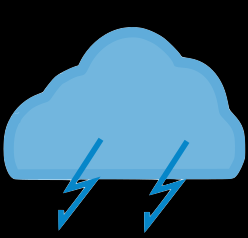
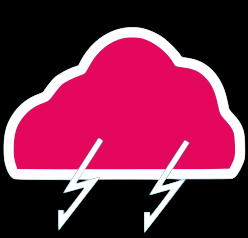
style change

diff --git a/app.py b/app.py
@@ -95,8 +95,8 @@ card = dbc.Card(
 Time_LED = daq.LEDDisplay(
     id="operator-led",
     value='12:34',
-    #color="#92e0d3",
-    backgroundColor="#0a0808",
+    color="#E4085C",
+    backgroundColor="#000000",
     size=50
 )
 
@@ -105,8 +105,8 @@ News = dbc.Toast(
     [html.P(str(news[0]['title']), className="mb-0"),
     html.P(str(news[1]['title']), className="mb-0")],
     header="Spiegel News",
-    style={'width': '50%',
-            'color': '#7FDBFF',
+    style={'width': '100%',
+            'color': '#E4085C',
             'backgroundColor':'#000000',
             'font-size':'14px'}
 )
@@ -118,7 +118,9 @@ Temp_Graph = dcc.Graph(
             'x': temp_fc['datetime'],
             'y': temp_fc['temp'],
             'type': 'scatter',
-            'fill': 'tonexty'
+            'fill': 'tonexty',
+            'marker':{
+            'color': '#E4085C'}
         }],
         'layout': {
             'plot_bgcolor':'#000000',
@@ -183,7 +185,8 @@ app.layout = dbc.Container([
         dbc.Col(
             html.Div(id='date'),
             width={"size": 2, "offset": 5},
-            style={'text-align': 'center'}
+            style={'text-align': 'center',
+                'color':'#E4085C'}
             #style={'backgroundColor':'white'}
         ),
     ]),
@@ -191,11 +194,12 @@ app.layout = dbc.Container([
     dbc.Row([
         dbc.Col(
             card,
-        width={'size':3,'offset':1},
+        width={'size':3},
         ),
         dbc.Col(
             News,        
-        width={'size':4, 'offset':4},
+        width={'size':2, 'offset':6},
+        #style={'backgroundColor':'white'}
         ),
     ]),
     dbc.Row(),
@@ -213,7 +217,7 @@ app.layout = dbc.Container([
 
         dbc.Col(
             maps,
-        width={'size':3, 'offset':3},
+        width={'size':3, 'offset':5},
         #style={'backgroundColor':'white'}
         )     
     ]),
